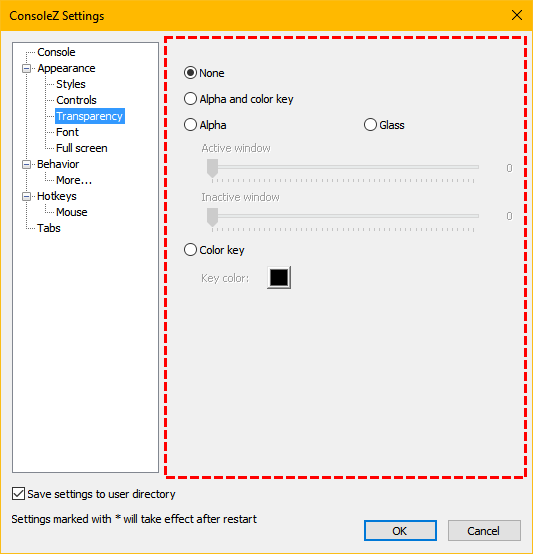
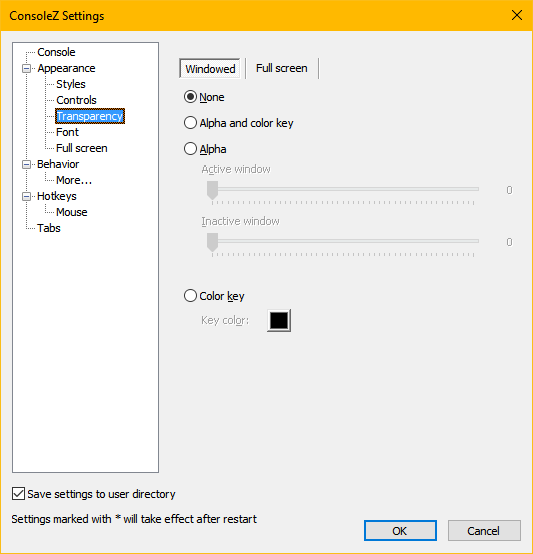
version 1.18.1.17076

diff --git a/help/html/settings_appearance_transparency.html b/help/html/settings_appearance_transparency.html
@@ -1,4 +1,4 @@
-<!DOCTYPE html PUBLIC "-//W3C//DTD XHTML 1.0 Strict//EN" "http://www.w3.org/TR/xhtml1/DTD/xhtml1-strict.dtd">
+<!DOCTYPE html PUBLIC "-//W3C//DTD XHTML 1.0 Strict//EN" "http://www.w3.org/TR/xhtml1/DTD/xhtml1-strict.dtd">
 <html xmlns="http://www.w3.org/1999/xhtml" xml:lang="en">
 
 <head>
@@ -13,6 +13,13 @@
 	<p>
 	<img src="../images/settings_appearance_transparency.png" />
 	</p>
+
+	<p class="block-row-name">Windowed/Fullscreen</p>
+	<p class="block-row-description">
+		If <i>Windowed</i> is selected, you are editing transparency settings available in windowed mode.<br />
+		If <i>Full screen</i> is selected, you are editing transparency settings available in full screen mode.<br />
+	</p>
+	<br />
 
 	<p class="block-row-name">None<br />Alpha and color key<br />Alpha<br />Glass<br />Color key</p>
 	<p class="block-row-description">

diff --git a/shared/version.h b/shared/version.h
@@ -2,14 +2,14 @@
 
 #define VERSION_MAJOR     1
 #define VERSION_MINOR     18
-#define VERSION_BUILD     0
-#define VERSION_BUILD2    17048
-#define VERSION_FILE      "1.18.0.17048"
-#define VERSION_PRODUCT   "1.18.0.17048"
+#define VERSION_BUILD     1
+#define VERSION_BUILD2    17076
+#define VERSION_FILE      "1.18.1.17076"
+#define VERSION_PRODUCT   "1.18.1.17076 beta0"
 #define VERSION_COPYRIGHT "Copyright (C) 2011-2017 Bucher Christophe"
 
 #ifndef _WIN32
 
-VERSION = 1.18.0.17048
+VERSION = 1.18.1.17076
 
 #endif

diff --git a/README.md b/README.md
@@ -38,6 +38,14 @@ Changelog
     + added
     * fixed
 
+Changes in 1.18.1 (17 Mar 2017)
+
+    + Transparency settings per windowed/full screen mode.
+    + Print code page (for each shell) in diagnostic report.
+    * ALT-SPACE menu.
+    * "Attach Consoles" failure.
+    * Split bar size.
+
 Changes in 1.18.0 (17 Feb 2017)
 
     ! Update tab title current directory in realtime.
